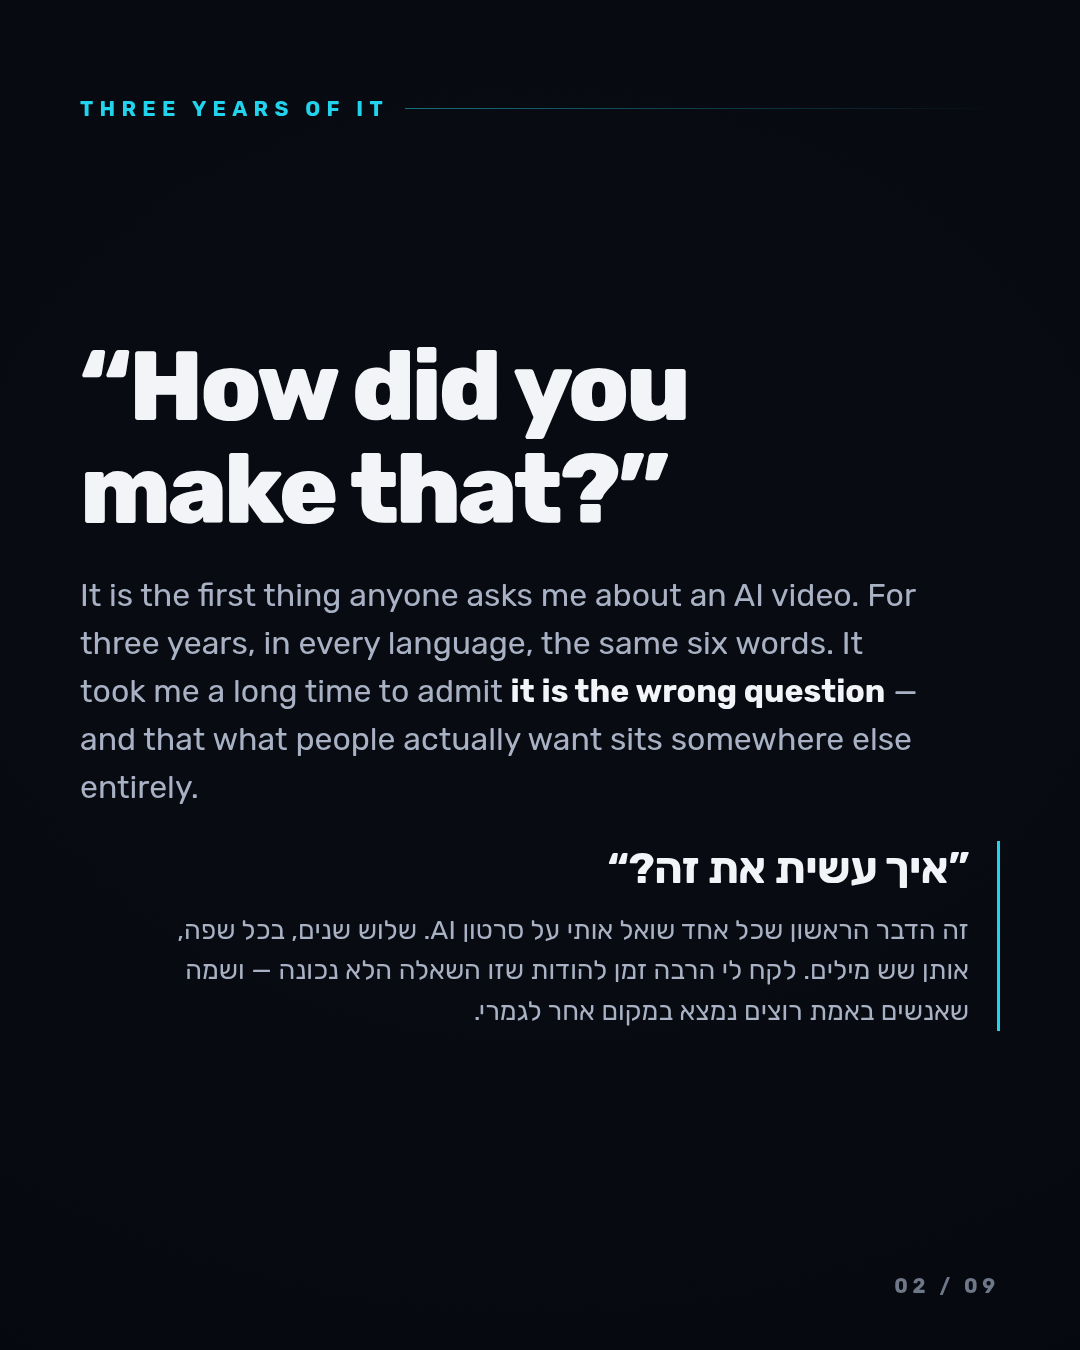
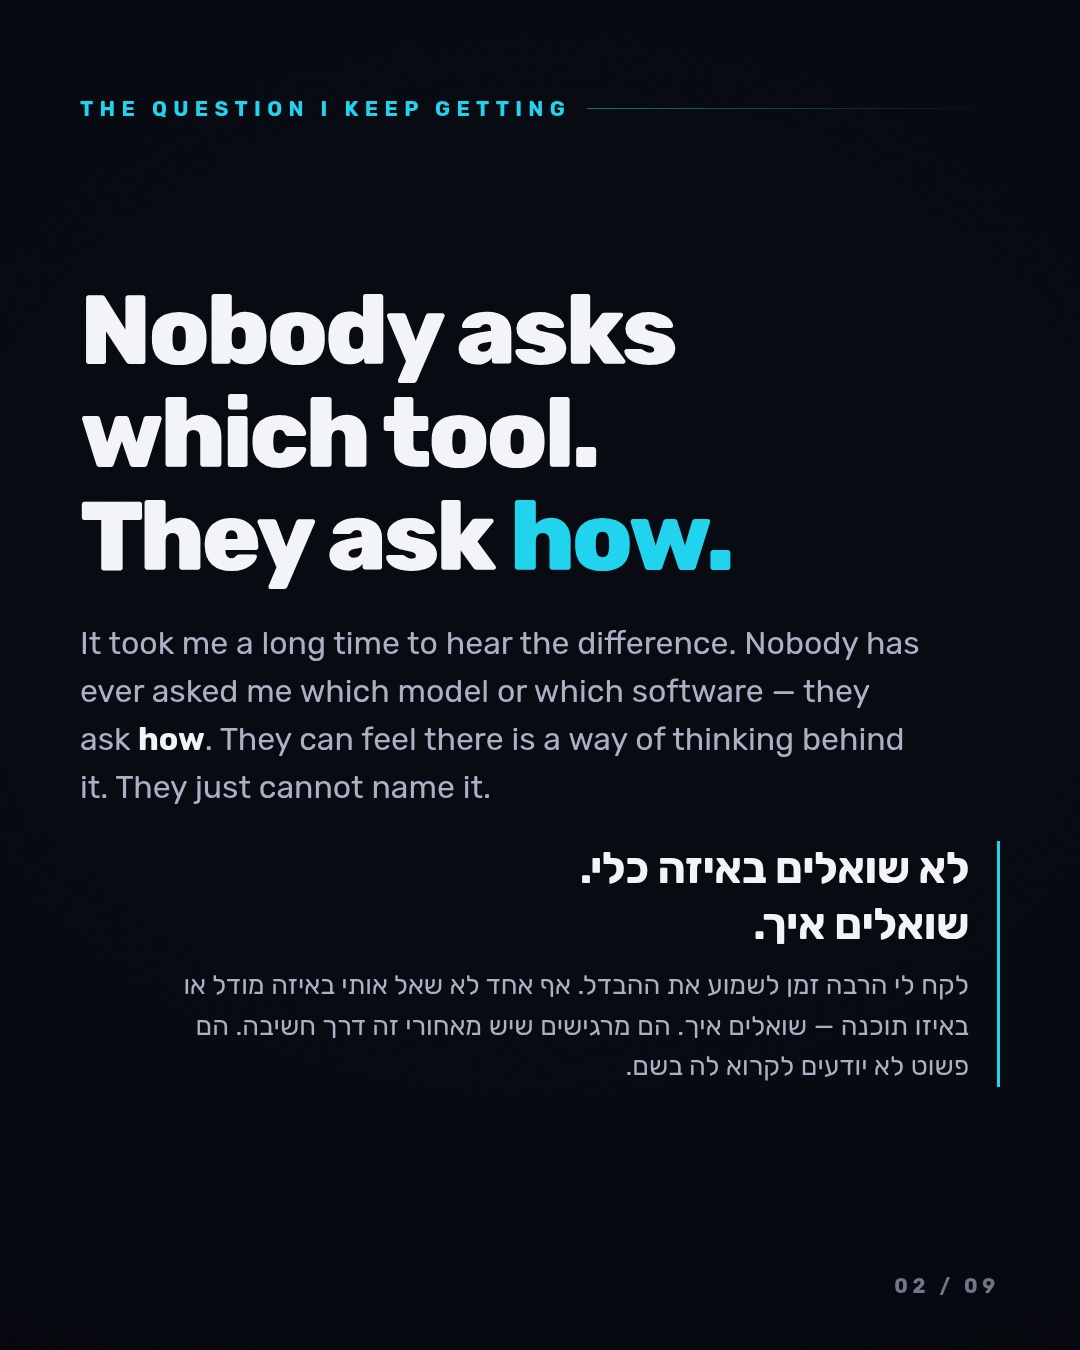
Reframe carousel slide 02 around "how"
Slide 02 argued that "how did you make that?" is the wrong question, and
nothing downstream picked that back up — it read as a detour in an
otherwise tight sequence.

It now says what actually happens: nobody asks which tool, they ask how.
That threads straight into slide 05 ("none about the tools") and gets its
answer in slide 06 ("the order of decisions before you write a prompt").
The setup and the payoff are the same idea now.

Caption realigned to open on the same line.

Claude-Session: https://claude.ai/code/session_0113ue75zsKk6knXSw8ei82D

Changed region(s): [[0.0611, 0.2178, 0.8556, 0.5911], [0.1528, 0.6222, 0.9167, 0.8089], [0.1222, 0.0622, 0.5194, 0.0933]]

diff --git a/omer-method-launch/03-carousel/carousel.html b/omer-method-launch/03-carousel/carousel.html
@@ -159,13 +159,13 @@ body{background:#14171d;font-family:Rubik,sans-serif;-webkit-font-smoothing:anti
 <section class="slide" id="s02">
   <div class="grain"></div><div class="vig"></div>
   <div class="pad">
-    <div class="over">Three years of it</div>
+    <div class="over">The question I keep getting</div>
     <div class="grow"></div>
-    <div class="en lead xl">&ldquo;How did you<br>make that?&rdquo;</div>
-    <div class="deck" style="margin-top:30px">It is the first thing anyone asks me about an AI video. For three years, in every language, the same six words. It took me a long time to admit <b>it is the wrong question</b> — and that what people actually want sits somewhere else entirely.</div>
+    <div class="en lead xl">Nobody asks<br>which tool.<br>They ask <span class="cy">how.</span></div>
+    <div class="deck" style="margin-top:30px">It took me a long time to hear the difference. Nobody has ever asked me which model or which software — they ask <b>how</b>. They can feel there is a way of thinking behind it. They just cannot name it.</div>
     <div class="he-block" style="margin-top:30px">
-      <div class="he-line">&rdquo;איך עשית את זה?&ldquo;</div>
-      <div class="he-deck">זה הדבר הראשון שכל אחד שואל אותי על סרטון <bdi>AI</bdi>. שלוש שנים, בכל שפה, אותן שש מילים. לקח לי הרבה זמן להודות שזו השאלה הלא נכונה — ושמה שאנשים באמת רוצים נמצא במקום אחר לגמרי.</div>
+      <div class="he-line">לא שואלים באיזה כלי.<br>שואלים איך.</div>
+      <div class="he-deck">לקח לי הרבה זמן לשמוע את ההבדל. אף אחד לא שאל אותי באיזה מודל או באיזו תוכנה — שואלים <bdi>איך</bdi>. הם מרגישים שיש מאחורי זה דרך חשיבה. הם פשוט לא יודעים לקרוא לה בשם.</div>
     </div>
     <div class="grow"></div>
   </div>

diff --git a/omer-method-launch/03-carousel/caption.md b/omer-method-launch/03-carousel/caption.md
@@ -9,17 +9,17 @@ stopped.
 ## Caption
 
 ```
-For three years people have asked me the same question about my AI videos: how did you make that?
+In three years of making things with AI, not one person has ever asked me which model I used.
 
-It's the wrong question — and it took me a long time to admit it.
+They ask how. It took me a long time to hear the difference.
 
 I built Monica, an AI singer who does not exist. People kept asking where they could hear her song, until I put it on Spotify and a song by someone who isn't real became a real song. I built Only in Israel, a sitcom made entirely with AI that passed a million views, where the audience argues about the building's rules as if the building existed. I built BRIEF 24 using the very method it depicts, which means I ran it on myself before I ever sold it.
 
 Thousands of comments across all of it, in four languages. Not one of them asked which model I used. They wrote about a character, a song, a country. One comment picked up 889 likes on its own.
 
-That is the whole thing. The AI was never the interesting part.
+That is the whole thing. The AI was never the interesting part — the how was.
 
-So what is the method? It's the order of decisions you make before you ever write a prompt. I spent months writing it down, deleting it, and writing it again — five guides that walk through how I actually think, start to finish.
+So what is the how? It's the order of decisions you make before you ever write a prompt. I spent months writing it down, deleting it, and writing it again — five guides that walk through how I actually think, start to finish.
 
 It doesn't replace you. It sharpens what you already do.
 
@@ -29,17 +29,17 @@ Link in bio → omermethod.com
 
 —
 
-במשך שלוש שנים שואלים אותי את אותה שאלה על סרטוני ה-AI שלי: איך עשית את זה?
+בשלוש שנים של יצירה עם AI, אף אחד מעולם לא שאל אותי באיזה מודל השתמשתי.
 
-זו השאלה הלא נכונה, ולקח לי הרבה זמן להודות בזה.
+שואלים איך. לקח לי הרבה זמן לשמוע את ההבדל.
 
 בניתי את מוניקה, זמרת AI שלא קיימת. אנשים ביקשו לשמוע את השיר שלה עד שהעליתי אותו לספוטיפיי — ושיר של מישהי שלא קיימת הפך לשיר אמיתי. בניתי את Only in Israel, סיטקום שנוצר כולו ב-AI ועבר מיליון צפיות, שבו הקהל מתווכח על חוקי הבניין כאילו הבניין קיים. ובניתי את BRIEF 24 בדיוק בשיטה שהיא מתארת — כלומר הפעלתי אותה על עצמי לפני שמכרתי אותה.
 
 אלפי תגובות, בארבע שפות. אף אחת מהן לא שאלה באיזה מודל השתמשתי. הם כתבו על דמות, על שיר, על מדינה. תגובה אחת אספה לבדה 889 לייקים.
 
-זה כל הסיפור. ה-AI מעולם לא היה החלק המעניין.
+זה כל הסיפור. ה-AI מעולם לא היה החלק המעניין — ה"איך" היה.
 
-אז מה השיטה? סדר ההחלטות שאתם מקבלים לפני שאתם כותבים פרומפט. חודשים כתבתי, מחקתי וכתבתי שוב — חמישה מדריכים שלוקחים אתכם יד ביד לתוך אופן החשיבה שלי.
+אז מה ה"איך"? סדר ההחלטות שאתם מקבלים לפני שאתם כותבים פרומפט. חודשים כתבתי, מחקתי וכתבתי שוב — חמישה מדריכים שלוקחים אתכם יד ביד לתוך אופן החשיבה שלי.
 
 זה לא מחליף אתכם. זה מחדד את מה שאתם כבר עושים.
 
@@ -74,4 +74,10 @@ follow or leave. That reader has already chosen to engage, so length costs
 nothing and substance earns the follow.
 
 The hook still has to survive the 125-character truncation, which is why the
-question opens it and the admission lands immediately after.
+"nobody ever asked which model" line opens it and the turn lands immediately
+after.
+
+The carousel and the caption now run the same thread: people ask **how**, and
+the how is the order of decisions. Slide 02 sets it up, slide 06 answers it.
+Before this pass slide 02 argued that the question was *wrong*, which nothing
+downstream ever picked back up — it read as a detour.
